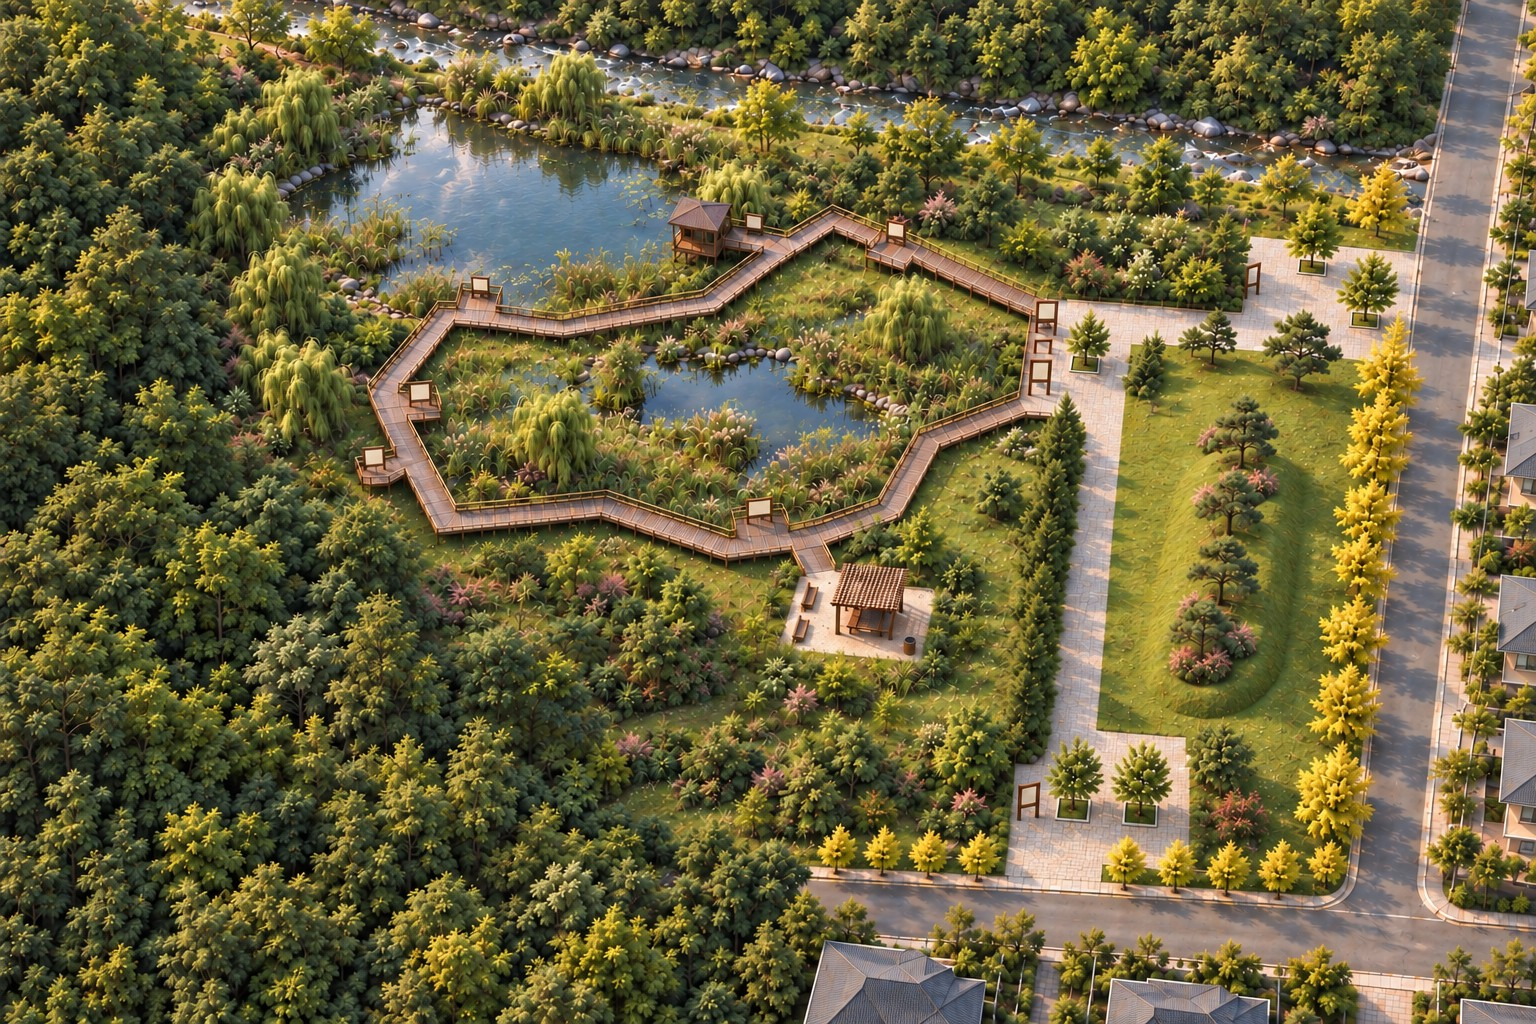
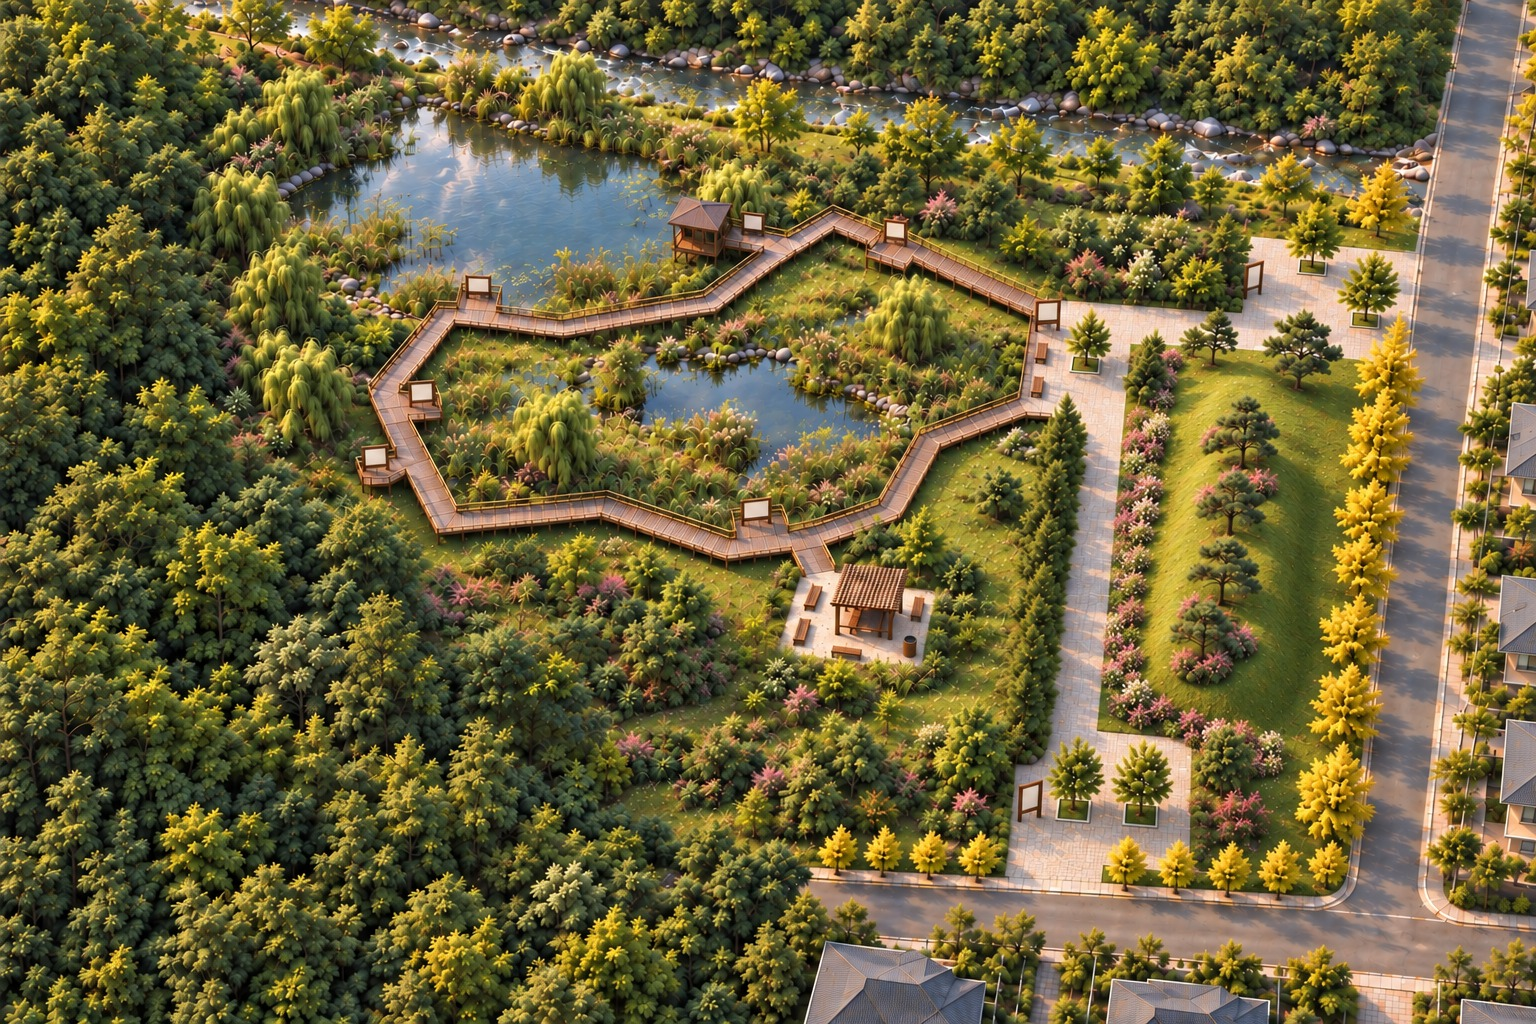
My 조감도 401: 마운딩 언덕·가장자리 식재, 평의자, 안내판 방향 (7회차)
사용자 지적 넷을 한 회차에 고쳤다. 회차를 나누면 덧그리기가 쌓여 물러지므로
6회차 그림에서 한 번에 갔다(참고: 배식설계도 + 6회차, --quality xhigh).

1. 마운딩이 평평한 판에 짙은 콩팥 모양 테두리만 그려져 파인 자국처럼
   보이던 것을 가운데가 솟은 잔디 언덕으로
2. 배식설계도대로 화단 서쪽·남쪽 변에 끊기지 않는 꽃관목 띠
3. 모임광장 서쪽 셋을 안내판에서 평의자로 — 성운 시설물 수량표가
   평의자 8 · 안내판 6 · 종합안내판 1 이고 안내판 6은 관찰데크 5 +
   조류관찰소 1 로 다 차므로, 평의자 8 - 휴게공간 5 = 3 이 모임광장 몫이다.
   셋 중 둘만 바뀌어 하나가 안내판으로 남았다(남은 차이에 적었다)
4. 휴게공간 평의자를 2개에서 5개로(문제 조건), 안내판을 모두 옆 포장
   경계와 나란히

선명도는 1900 → 1781 (-6%) 로 기준(-15%) 안이다. 한 번 더 고치려 한
8회차는 남은 안내판을 못 고친 채 선명도만 -23% 가 되어 버렸다(기각).

글 정정: My 대조표의 '모임광장(수목보호대 1 · 안내판 3)' → '평의자 3',
'평의자 2' → '평의자 5'. 입체평면도 대조표도 같은 오기를 고치고, 그 그림은
아직 안내판으로 그려져 있다는 사실을 '남은 차이'에 적었다(그림은 미수정).
My content.md 의 비용 문구가 셸 확장으로 깨져 있던 것도 함께 고쳤다.

Changed region(s): [[0.0, 0.0, 1.0, 1.0]]

diff --git a/_ls_drawing_refs/401_입체평면도/content.md b/_ls_drawing_refs/401_입체평면도/content.md
@@ -94,14 +94,13 @@
 | 관찰로 | 목재데크, 습지를 다각형으로 한 바퀴 돌아 모임광장에서 닫힘 | ✓ 닫힌 고리 · 데크 널 이음매·난간·하부 기둥·그림자까지 |
 | 관찰데크 | 5개소, 안내판 5개 | ✓ 5개 · 각각 빈 안내판 1개 |
 | 휴게공간 | 8m × 8m, 파고라 4×4 1 · 평의자 · 휴지통 1 | ✓ 파고라 1(기둥 4개와 살대 그림자) · 평의자 2 · 휴지통 1 · 그늘목 |
-| 모임광장 | 습지 동쪽, 서쪽 안내판 3 · 수목보호대 1 | ✓ (안내판은 13회차에 3개로 되돌림) |
+| 모임광장 | 습지 동쪽, 서쪽 **평의자 3** · 수목보호대 1 | △ 그림은 아직 안내판 3개로 그려져 있음 — 아래 '남은 차이' 참조 |
 | 진입광장 | 2개소(북동 모서리 · 남측), 종합안내판 1 · 수목보호대 2씩, 도로로 바로 열림 | ✓ 보호대 합계 5개(모임광장 1 + 진입광장 2+2) |
 | 남북 동선 | 두 진입광장을 잇는 소형고압블록 포장 | ✓ 동측 도로와 평행 |
 | 배식 | 동선 서쪽 메타세쿼이아 열식 · 동쪽 마운딩에 소나무 7 + 철쭉 · 도로변 은행나무 열식 · 산림지구 다층림 · 저수지·관찰로 서쪽은 열린 잔디 | ✓ 마운딩은 잔디 언덕에 소나무 7주(13회차), 서쪽 변과 남쪽 변을 따라 끊기지 않는 꽃관목 띠(16회차) |
 | 글자 | 없음 | ✓ |
 
-남은 차이는 **저수지가 도면보다 조금 동쪽·넓다**는 것(도면 부지 폭의 14~44%, 그림 약 19~50%)과
-**남측 도로가 55% 지점에서 시작**한다는 것(도면 50%)입니다.
+남은 차이는 셋입니다. ① **모임광장 서쪽 셋이 안내판으로 그려져 있는데 실은 평의자**입니다 — 성운 답안 시설물 수량표가 평의자 8 · 안내판 6 · 종합안내판 1 이고, 안내판 6은 관찰데크 5 + 조류관찰소 1 로 이미 다 차므로 평의자 8 − 휴게공간 5 = 3 이 모임광장 몫입니다('My' 탭 조감도는 7회차에 평의자로 고쳤습니다). 이 그림은 아직 고치지 않았습니다. ② **저수지가 도면보다 조금 동쪽·넓습니다**(도면 부지 폭의 14~44%, 그림 약 19~50%). ③ **남측 도로가 55% 지점에서 시작**합니다(도면 50%).
 
 비용은 16장 약 $0.69 입니다(마지막 장만 `xhigh` 품질이라 $0.074).
 
